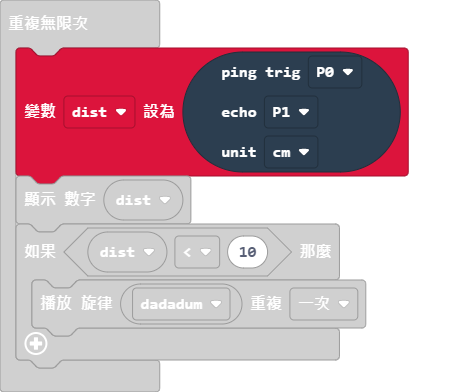
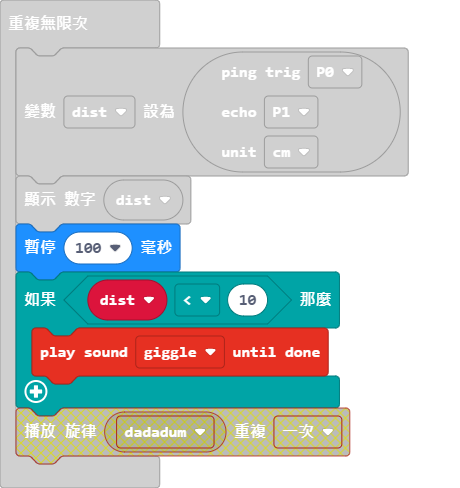
Update main.blocks, main.ts

diff --git a/main.ts b/main.ts
@@ -6,7 +6,8 @@ basic.forever(function () {
     PingUnit.Centimeters
     )
     basic.showNumber(dist)
+    basic.pause(100)
     if (dist < 10) {
-        music.startMelody(music.builtInMelody(Melodies.Dadadadum), MelodyOptions.Once)
+        soundExpression.giggle.playUntilDone()
     }
 })
